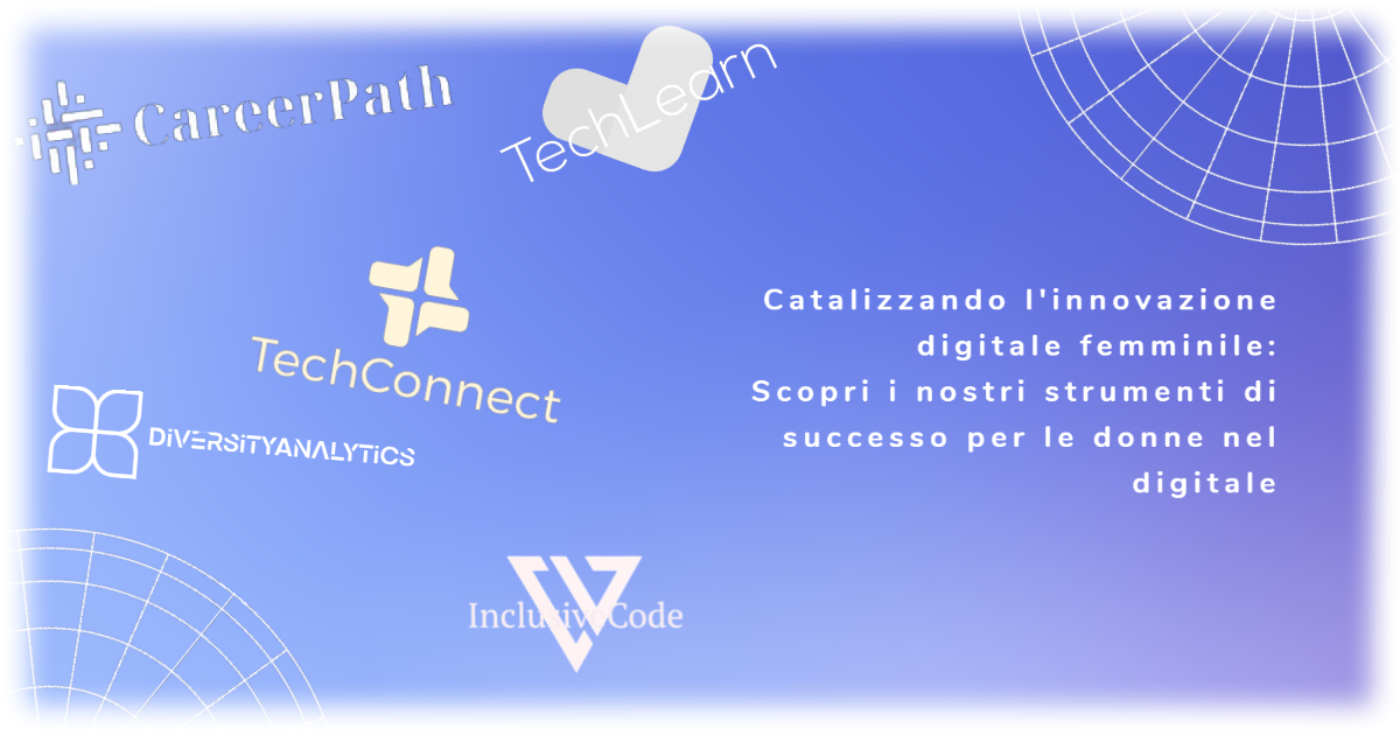
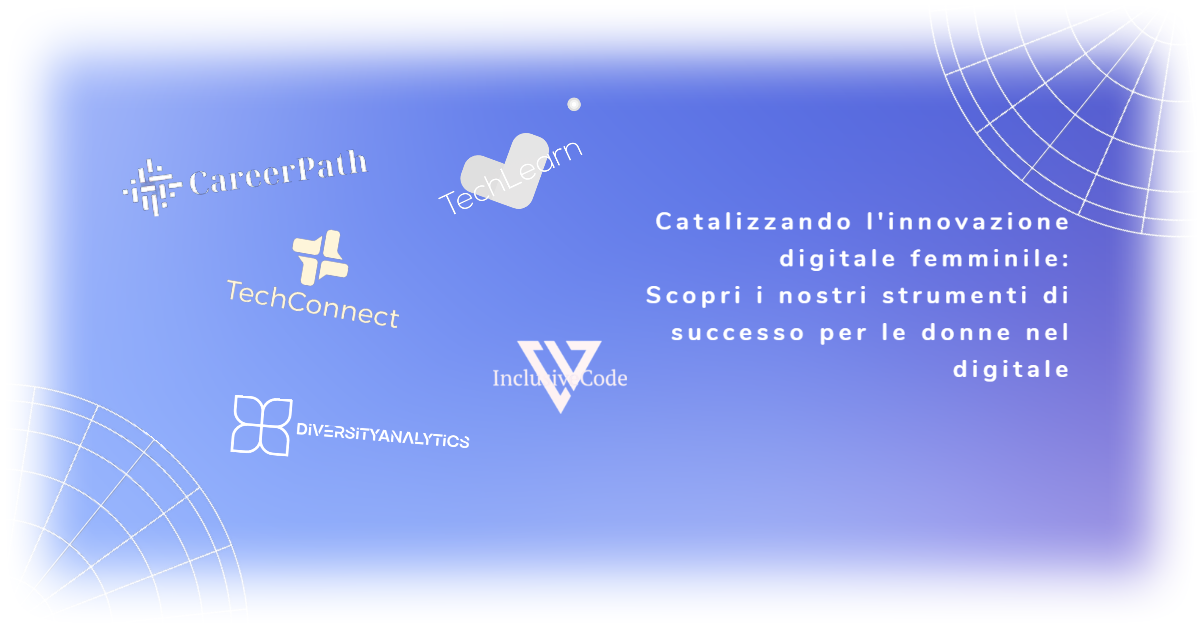
added the last features to AboutUs

diff --git a/about us.html b/about us.html
@@ -70,6 +70,7 @@
 										</ol>
 											
 									</section>
+									<section>
 										<header>
 											<h3>Come tre persone hanno creato un'azienda per promuovere l'inclusione di genere nel settore tecnologico</h3>
 										</header>
@@ -94,75 +95,70 @@
 								<hr class="first" />
 								<section>
 									<header>
-										<h3><a href="#">Accumsan sed penatibus</a></h3>
+										<h3><a href="#">Il Progetto</a></h3>
 									</header>
 									<p>
-										Dolor sed fringilla nibh nulla convallis tique ante proin sociis accumsan lobortis. Auctor etiam
-										porttitor phasellus tempus cubilia ultrices tempor sagittis  tellus ante diam nec penatibus dolor cras
-										magna tempus feugiat veroeros.
-									</p>
+										Cliccando su questo pulsante, avrai accesso a una relazione esaustiva che racconta l'emozionante percorso del team nel backstage di TechnicallyEqual nel promuovere l'empowerment delle donne nel settore digitale. All'interno della relazione, troverai anche dettagliate informazioni su come il team ha realizzato l'intero progetto, dalle prime fasi di pianificazione e sviluppo fino alla sua implementazione e impatto nel settore.									</p>
 									<footer>
-										<a href="#" class="button">Learn More</a>
+										<a href="https://docs.google.com/document/d/19LiLnCH7yGTQPjttiwchZUjGCRvmMKuK/edit?usp=sharing&ouid=110705091845379749281&rtpof=true&sd=true" class="button">Vedi la relazione</a>
 									</footer>
 								</section>
 								<hr />
 								<section>
 									<header>
-										<h3><a href="#">Sed lorem etiam consequat</a></h3>
+										<h3><a href="our products.html">Update recenti</a></h3>
 									</header>
 									<p>
-										Tempus cubilia ultrices tempor sagittis. Nisl fermentum consequat integer interdum.
+										Scopri gli ultimi aggiornamenti delle nostre app!
 									</p>
 									<div class="row gtr-50">
 										<div class="col-4">
-											<a href="#" class="image fit"><img src="images/pic10.jpg" alt="" /></a>
+											<a href="our products.html#TechLearn" class="image fit"><img src="images/TechLearn.png" alt="" /></a>
 										</div>
 										<div class="col-8">
-											<h4>Nibh sed cubilia</h4>
-											<p>
-												Amet nullam fringilla nibh nulla convallis tique ante proin.
-											</p>
+											<h4>TechLearn</h4>
+											<a href="our products.html#TechLearn"><p>
+												TechLearn 20.1 ha nuovi corsi disponibili, per ampliare le tue competenze nel campo dell'intelligenza artificiale, sviluppo mobile e gestione dei dati
+											</p></a>
 										</div>
 										<div class="col-4">
-											<a href="#" class="image fit"><img src="images/pic11.jpg" alt="" /></a>
+											<a href="our products.html#TechConnect" class="image fit"><img src="images/TechConnect.png" alt="" /></a>
 										</div>
 										<div class="col-8">
-											<h4>Proin sed adipiscing</h4>
-											<p>
-												Amet nullam fringilla nibh nulla convallis tique ante proin.
-											</p>
+											<h4>TechConnect</h4>
+											<a href="our products.html#TechConnect"><p>
+												TechConnect 30.5 include l'aggiunta di un calendario degli eventi per tenere traccia di webinar, conferenze e workshop relativi al digitale, e anche di di gruppi di interesse per consentire agli utenti di connettersi in base alle loro aree di specializzazione o interessi comuni
+											</p></a>
 										</div>
 										<div class="col-4">
-											<a href="#" class="image fit"><img src="images/pic12.jpg" alt="" /></a>
+											<a href="our products.html#CareerPath" class="image fit"><img src="images/CareerPath.png" alt="" /></a>
 										</div>
 										<div class="col-8">
-											<h4>Lorem feugiat magna</h4>
-											<p>
-												Amet nullam fringilla nibh nulla convallis tique ante proin.
-											</p>
+											<h4>CareerPath</h4>
+											<a href="our products.html#CareerPath"><p>
+												CareerPath 10.1 include miglioramenti dell'algoritmo di corrispondenza delle competenze per fornire suggerimenti di carriera più precisi e personalizzati, e l'integrazione con piattaforme di reclutamento per semplificare il processo di candidatura per le posizioni desiderate.
+											</p></a>
 										</div>
 										<div class="col-4">
-											<a href="#" class="image fit"><img src="images/pic13.jpg" alt="" /></a>
+											<a href="our products.html#DiversityAnalytics" class="image fit"><img src="images/DiversityAnalystics.png" alt="" /></a>
 										</div>
 										<div class="col-8">
-											<h4>Sed tempus fringilla</h4>
-											<p>
-												Amet nullam fringilla nibh nulla convallis tique ante proin.
-											</p>
+											<h4>DiversityAnalytics</h4>
+											<a href="our products.html#DiversityAnalytics"><p>
+												DiversityAnalystics 5.0 ha nuove metriche e grafici per fornire una panoramica più completa della diversità di genere nel settore tecnologico. 
+											</p></a>
 										</div>
 										<div class="col-4">
-											<a href="#" class="image fit"><img src="images/pic14.jpg" alt="" /></a>
+											<a href="our products.html#InclusiveCode" class="image fit"><img src="images/InclusiveCode.png" alt="" /></a>
 										</div>
 										<div class="col-8">
-											<h4>Malesuada fermentum</h4>
-											<p>
-												Amet nullam fringilla nibh nulla convallis tique ante proin.
-											</p>
+											<h4>InclusiveCode</h4>
+											<a href="our products.html#InclusiveCode"></a><p>
+												InclusiveCode 15.9 si aggiorna con nuove funzioni, come il fornimento di suggerimenti per evitare stereotipi di genere nei commenti del codice e aggiornamenti dell'intelligenza artificiale per una rilevazione più accurata di stereotipi di genere o linguaggio offensivo
+											</p></a>
 										</div>
 									</div>
-									<footer>
-										<a href="#" class="button">Magna Adipiscing</a>
-									</footer>
+									
 								</section>
 							</div>
 						</div>
@@ -184,7 +180,7 @@
 								</header>
 							</article>
 							<article class="col-4 col-12-mobile special">
-								<a href="#" class="image featured"><img src="images/Biagio.jpg" alt="" /></a>
+								<a href="images/Curiculum-Biagio.png" class="image featured"><img src="images/Biagio.jpg" alt="" /></a>
 								<header>
 									<h3>Biagio Formia</h3>
 									<h5>Chief Marketing Officer </h5>

diff --git a/our products.html b/our products.html
@@ -52,7 +52,7 @@
 
 					<div class="container">
 						<article id="main" class="special">
-							<a href="#" class="image banner"><img src="images/Products banner testing.png" alt="" /></a>
+							<a href="#" class="image banner"><img src="images/Products banner.png" alt="" /></a>
 						
 						</article>
 						<hr />
